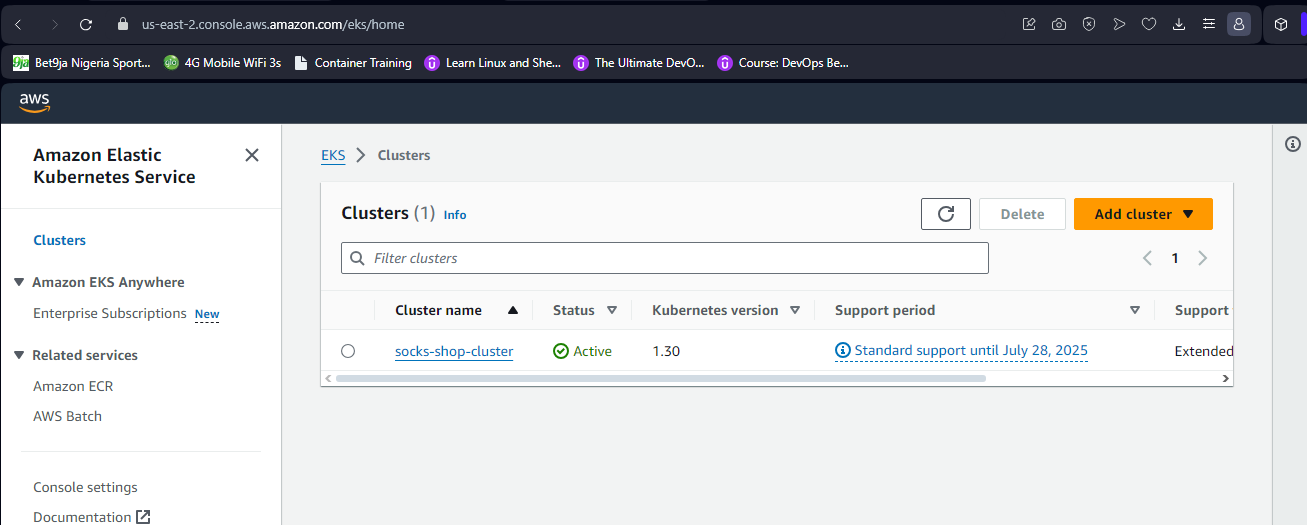
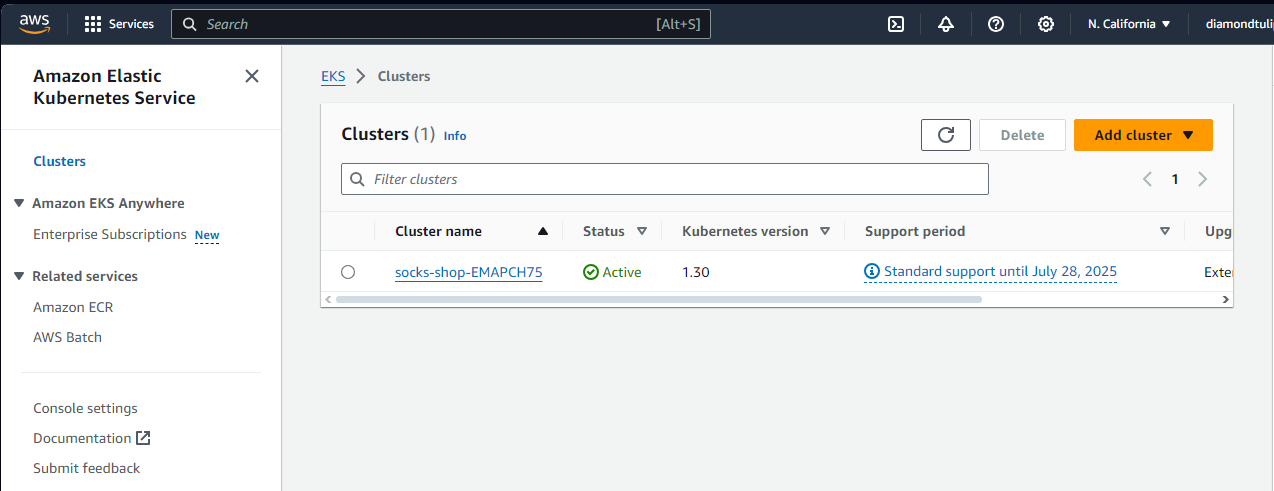
Project Documentation

diff --git a/Documentation.md b/Documentation.md
@@ -1,0 +1,386 @@
+
+# SOCKY APP DEPLOY
+
+## Requirements and Prerequisites:
+
+Before beginning the deployment, ensure you have the necessary tools and knowledge. Kubernetes is a powerful container orchestration platform, and you'll need access to an EKS cluster or any Kubernetes provider to run your application. Helm is used for managing Kubernetes applications, while Terraform will help you provision your infrastructure as code. ArgoCD, GitHub Actions, and a Linux server will be essential for CI/CD and overall deployment management.
+
+
+
+## Deploying the EKS Cluster
+
+In this stage, you will provision an EKS (Elastic Kubernetes Service) cluster using Terraform. Terraform allows you to define and provision your cloud infrastructure in a declarative way. By navigating to the Terraform directory and running the `terraform apply` command, you'll create the necessary AWS resources for your EKS cluster. This step is crucial as it sets up the foundation for running your Kubernetes workloads.
+
+
+
+```bash
+terraform init
+terraform validate
+terraform plan
+terraform apply --auto-approve
+
+```
+![creating EKS cluster](./Images/creating%20EKS%20cluster.png)
+
+
+![EKS Cluster Deployment Screenshot](./Images/cluster%20created.png)
+
+![worker nodes running](./Images/worker%20nodes%20running.png)
+
+
+
+## Update kubeconfig File
+
+After provisioning your EKS cluster, you need to update the kubeconfig file, which is a configuration file used by kubectl to access Kubernetes clusters. The aws eks update-kubeconfig command updates this file with the details of your new EKS cluster, enabling you to interact with the cluster using kubectl. This step ensures that your Kubernetes CLI is correctly configured to manage the resources on your new EKS cluster.
+
+```bash
+aws eks update-kubeconfig --name socks-shop-EMAPCH75 --region us-west-1
+chmod 600 /root/.kube/config
+kubectl config current-context
+```
+
+
+## IAM Role Configuration
+
+Sometimes, your IAM role may not be pre-configured to access the EKS cluster resources. This stage involves applying an aws-auth.yaml configuration to grant your IAM role the necessary permissions. Re-running the aws eks update-kubeconfig command ensures that the updates take effect. Proper IAM role configuration is critical to avoid permission-related issues when managing your cluster.
+
+```bash
+kubectl apply -f aws-auth.yaml
+aws eks update-kubeconfig --name socks-shop-EMAPCH75 --region us-west-1
+```
+
+## Create sock-shop Namespace
+
+Namespaces in Kubernetes allow you to organize resources and provide isolation between different environments (e.g., development, testing, production). Here, you'll create a sock-shop namespace, which will house all resources related to the Socky app. This helps in logically grouping resources, making management easier and preventing naming conflicts.
+
+```bash
+kubectl create -f sock-shop-ns.yml ## this creates namespace from a yaml file
+
+or
+
+kubectl create namespace sockshop
+```
+
+## Checkout Helm Repository
+
+Helm is a package manager for Kubernetes that simplifies the deployment and management of applications. By listing the Helm repositories with helm repo ls, you'll confirm that your repositories are correctly configured, ensuring that you can pull and install the necessary charts. This step sets the stage for the subsequent installation of your application and supporting services.
+
+```bash
+helm repo ls
+```
+
+## Install CapstoneApp
+
+With the namespace and repositories in place, you're ready to install the CapstoneApp using Helm. Helm charts are collections of pre-configured Kubernetes resources that make it easy to deploy complex applications. This step involves installing the CapstoneApp into the sock-shop namespace and verifying that the application is running successfully. Proper installation ensures that your application components are correctly deployed and operational.
+
+```bash
+
+helm install capstoneapp app --namespace sock-shop
+
+helm list -A
+
+kubectl get pods -n sock-shop
+
+kubectl get service -n sock-shop
+
+```
+
+![creating and deploying the Socks Shop application](./Images/creating%20and%20deploying%20the%20Socks%20Shop%20application.png)
+
+
+## Add and Update Helm Repositories
+
+In this step, you'll add and update Helm repositories, ensuring you have access to the latest charts for additional services like Prometheus and Nginx Ingress. Prometheus is used for monitoring, while Nginx Ingress is used for managing external access to your services. Keeping these repositories up to date is crucial for obtaining the latest stable versions of the Helm charts.
+
+```bash
+helm search hub kube-prometheus
+
+helm repo add prometheus-community https://prometheus-community.github.io/helm-charts
+
+helm repo update
+
+helm show values prometheus-community/kube-prometheus-stack >> promvalue
+
+helm repo add ingress-nginx https://kubernetes.github.io/ingress-nginx/
+
+helm repo update
+
+```
+
+## Install Nginx ingress Controller
+
+Nginx is a web server and reverse proxy that is often used as an ingress controller in Kubernetes. By installing Nginx using Helm, you'll be able to manage and route incoming traffic to your services within the sock-shop namespace. This step is essential for exposing your application to the outside world and ensuring that it can handle HTTP/HTTPS requests.
+
+```bash
+helm install ingress-nginx ingress-nginx/ingress-nginx --namespace sock-shop
+
+helm list -A
+
+kubectl get pods -n sock-shop
+
+kubectl get service -n sock-shop
+
+```
+
+
+![pods running](./Images/pods.png)
+
+![services up and running](./Images/services.png)
+
+
+## Apply Ingress Configuration
+
+Ingress resources in Kubernetes manage external access to the services within your cluster. In this stage, you'll edit the ingress.yml file to define how traffic should be routed to your front-end service. Applying this file will configure the ingress controller (Nginx) to properly handle requests, enabling users to access your application through a specified URL. A classic ingress is narrated below;
+
+```bash
+An example Ingress that makes use of the controller:
+  apiVersion: networking.k8s.io/v1
+  kind: Ingress
+  metadata:
+    name: example
+    namespace: foo
+  spec:
+    ingressClassName: nginx
+    rules:
+      - host: www.example.com
+        http:
+          paths:
+            - pathType: Prefix
+              backend:
+                service:
+                  name: exampleService
+                  port:
+                    number: 80
+              path: /
+    # This section is only required if TLS is to be enabled for the Ingress
+    tls:
+      - hosts:
+        - www.example.com
+        secretName: example-tls
+
+```
+
+Run the following command to create the ingress and apply front-end service.
+
+```bash
+kubectl create -f ingress.yml
+```
+
+
+## Configure Route 53 to Set Up the A Record
+
+Go to the AWS Management Console. Navigate to Route 53 > Hosted Zones. If you have an existing hosted zone, select it. Otherwise, create a new hosted zone for your domain.
+
+### Create an A Record:
+
+1. In the hosted zone, click on Create Record.
+
+1. For Record Name, enter the subdomain or root domain you want to point to the Load Balancer (e.g., www, frontend or sockshop, or leave blank for the root domain). We decided to go with root domain in this project.
+
+1. Select Record Type as A – IPv4 address
+
+1. Choose  Alias and select Yes.
+
+1. In the Alias Target field, select your Load Balancer's DNS name from the drop-down list.
+
+1. Review the settings and click Create records
+
+
+
+![create A record](./Images/create%20A%20record.png)
+
+
+![A records created](./Images/A%20records%20created.png)
+
+
+<br>
+
+## Access your frontend service using the domain name to ensure the Load Balancer is correctly routing traffic.
+
+![sock-shop frontend](./Images/sock-shop%20frontend.png)
+
+![orders svc](./Images/orders%20svc.png)
+
+![sockshop 1](./Images/sockshop1.png)
+
+![sockshop 2](./Images/sockshop%202.png)
+
+
+<br>
+
+## Install Kube-Prometheus-Stack
+
+The Kube-Prometheus-Stack is a comprehensive monitoring solution that includes Prometheus, Grafana, and Alertmanager. By installing this stack, you'll gain valuable insights into your application's performance, resource usage, and overall health. This stage is crucial for maintaining observability and ensuring that Engineers can quickly respond to any issues in your cluster. It is also very important for this capstone project for Metrics (Alertmanager), Monitoring (Grafana) and Logging (Prometheus) purposes.
+
+
+```bash
+
+helm install prometheus prometheus-community/kube-prometheus-stack --namespace sock-shop
+
+```
+
+
+## Edit and Apply Ingress for Prometheus and Grafana
+
+To access the Prometheus and Grafana dashboards, you'll need to update the ingress.yml file to include routes for these services. Applying this file will expose the monitoring tools to the external world, allowing you to visualize metrics and set up alerts. This step ensures that your monitoring stack is easily accessible and configured correctly.
+
+
+```bash
+kubectl apply -f ingress.yml
+```
+
+![prometheus](./Images/prometheus.png)
+
+
+
+![grafana logged in](./Images/grafana%20logged%20in.png)
+
+
+## Grafana dashboard set up for the project
+
+
+![dashboard 1](./Images/dashboard%201.png)
+
+![dashboard 2](./Images/dashboard%202.png)
+
+![dashboard 3](./Images/dashboard%203.png)
+
+![dashboard 4](./Images/dashboard%204.png)
+
+
+
+
+## Deploy Let's Encrypt
+
+Let's Encrypt provides free SSL/TLS certificates, which are essential for securing your application's traffic. In this stage, you'll deploy Cert-Manager, a Kubernetes tool that automates the management and issuance of these certificates. Installing Cert-Manager ensures that your application can be accessed securely over HTTPS.
+
+
+```bash
+helm repo add jetstack https://charts.jetstack.io --force-update
+
+helm repo update 
+
+helm install \
+  cert-manager jetstack/cert-manager \
+  --namespace sock-shop \
+  --create-namespace \
+  --version v1.15.2 \
+  --set crds.enabled=true
+
+```
+
+
+## confirm installation
+
+helm list -A
+
+kubectl get pods -n sock-shop
+
+kubectl get service -n sock-shop
+
+
+## Edit Ingress for TLS
+
+To complete the SSL/TLS setup, you'll need to update the ingress.yml file with the certificate details provided by Let's Encrypt. Applying these changes will configure your ingress controller to serve traffic securely. This step is vital for ensuring that all communications between users and your application are encrypted.
+
+
+```bash
+
+kubectl apply -f ingress.yml
+
+```
+
+## Verify Cert-Manager Components
+
+After deploying Cert-Manager, it's important to verify that all components are functioning correctly. This involves checking that the necessary Custom Resource Definitions (CRDs) are recognized by the cluster and that the certificates have been issued successfully. This step ensures that your TLS certificates are active and that your application is fully secured.
+
+
+```bash
+kubectl get crd | grep cert-manager
+
+```
+
+## Apply the ClusterIssuer and Certificate manifests to get the Let's Encrypt Certificate
+
+```bash
+kubectl apply -f clusterissuer.yaml
+
+
+kubectl apply -f certificate.yml
+
+```
+
+
+## Confirm that nginx ingress controller is exposing 443 port
+
+```bash
+kubectl get svc --all-namespaces | grep ingress-nginx-controller
+
+```
+
+
+## Confirm the status of the certificate application
+
+```bash
+kubectl get clusterissuer
+
+
+kubectl get certificates -A
+
+```
+
+
+## Configure AlertManager
+
+AlertManager is a component of the Prometheus stack responsible for handling alerts generated by Prometheus. In this stage, you'll configure AlertManager to notify you of any critical issues within your cluster, ensuring that you can quickly respond to potential problems. Setting up AlertManager is key to maintaining the reliability and availability of your application.
+
+
+
+
+
+
+
+
+
+
+
+
+
+
+
+
+
+
+
+
+
+
+
+
+
+
+
+
+
+
+
+
+
+
+
+
+
+
+
+
+
+
+
+
+
+
+
+
+
+
+
